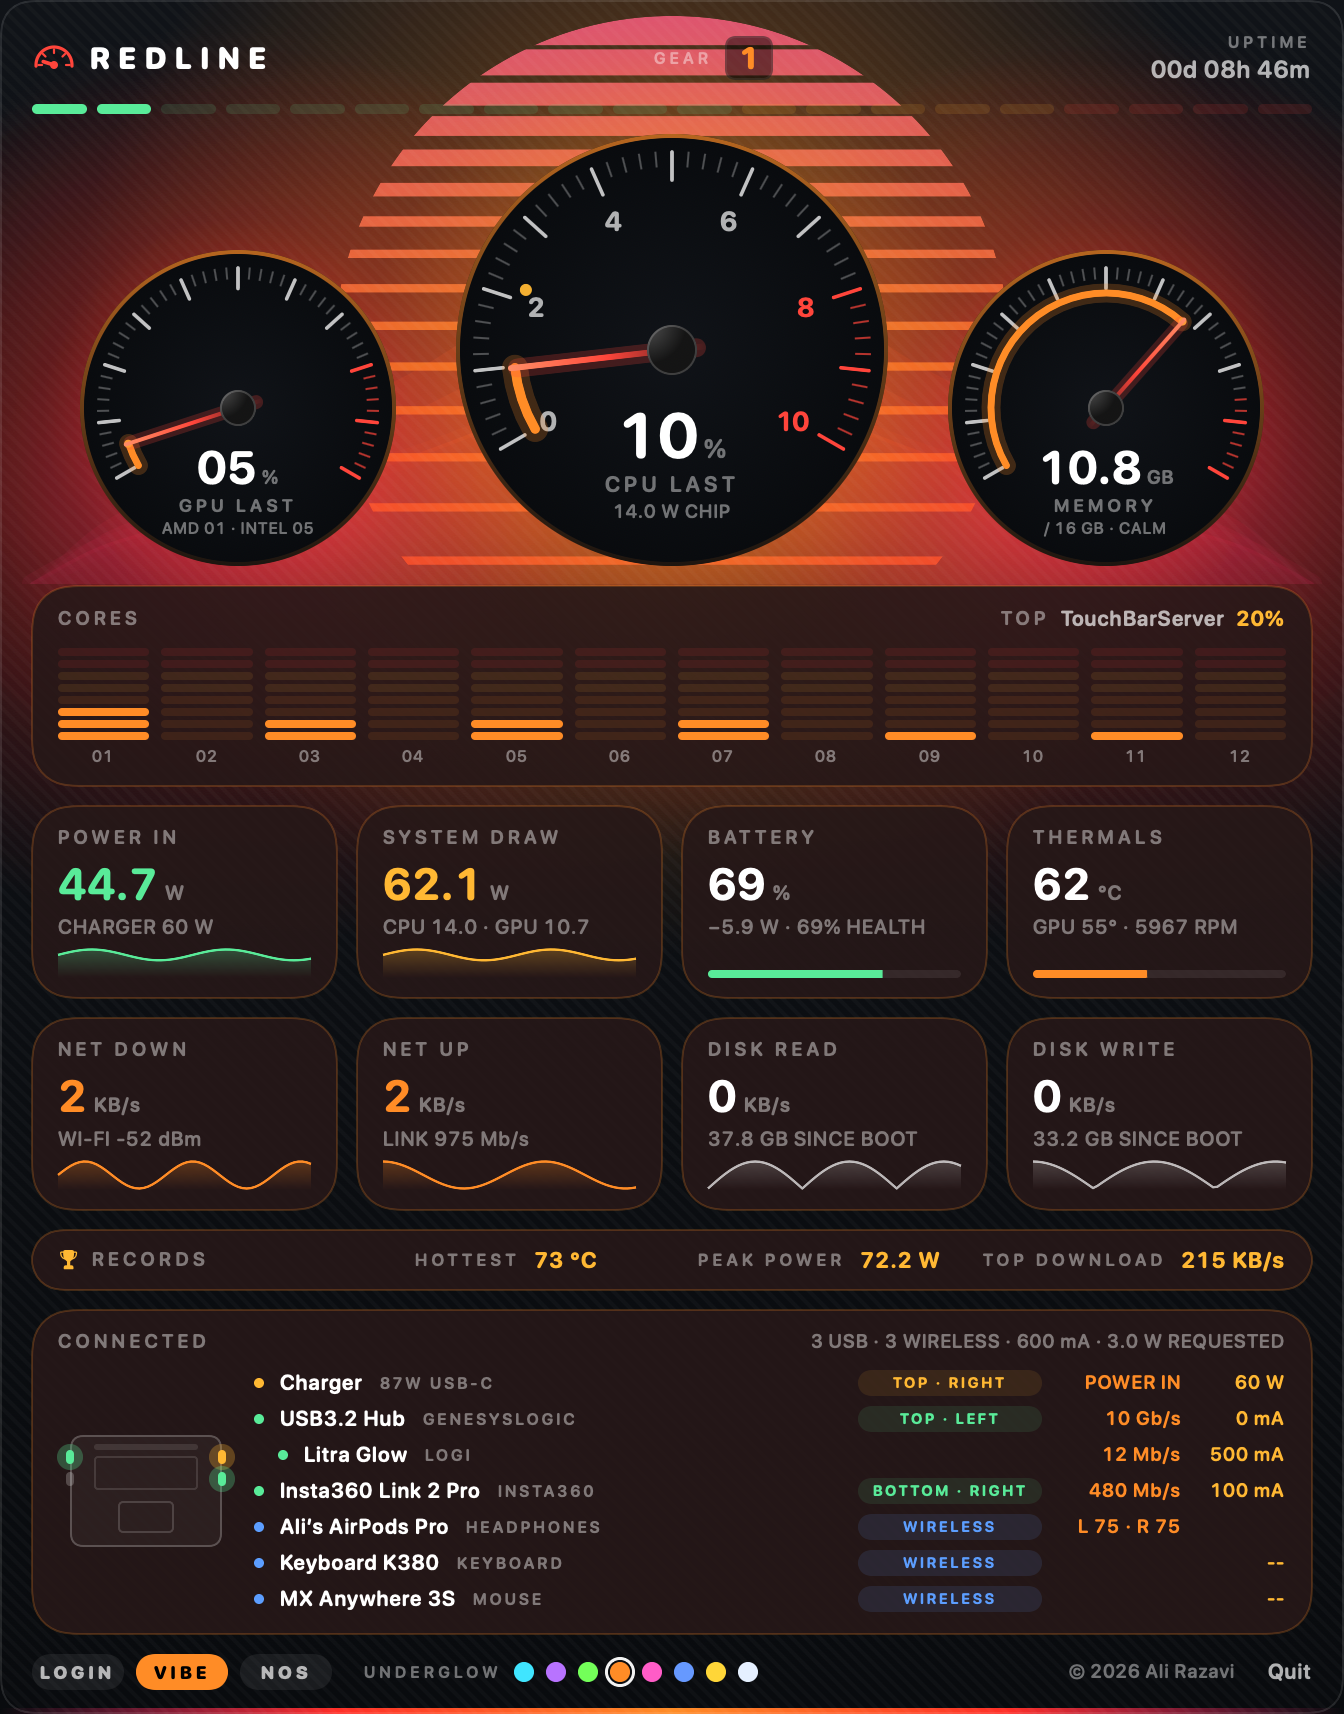
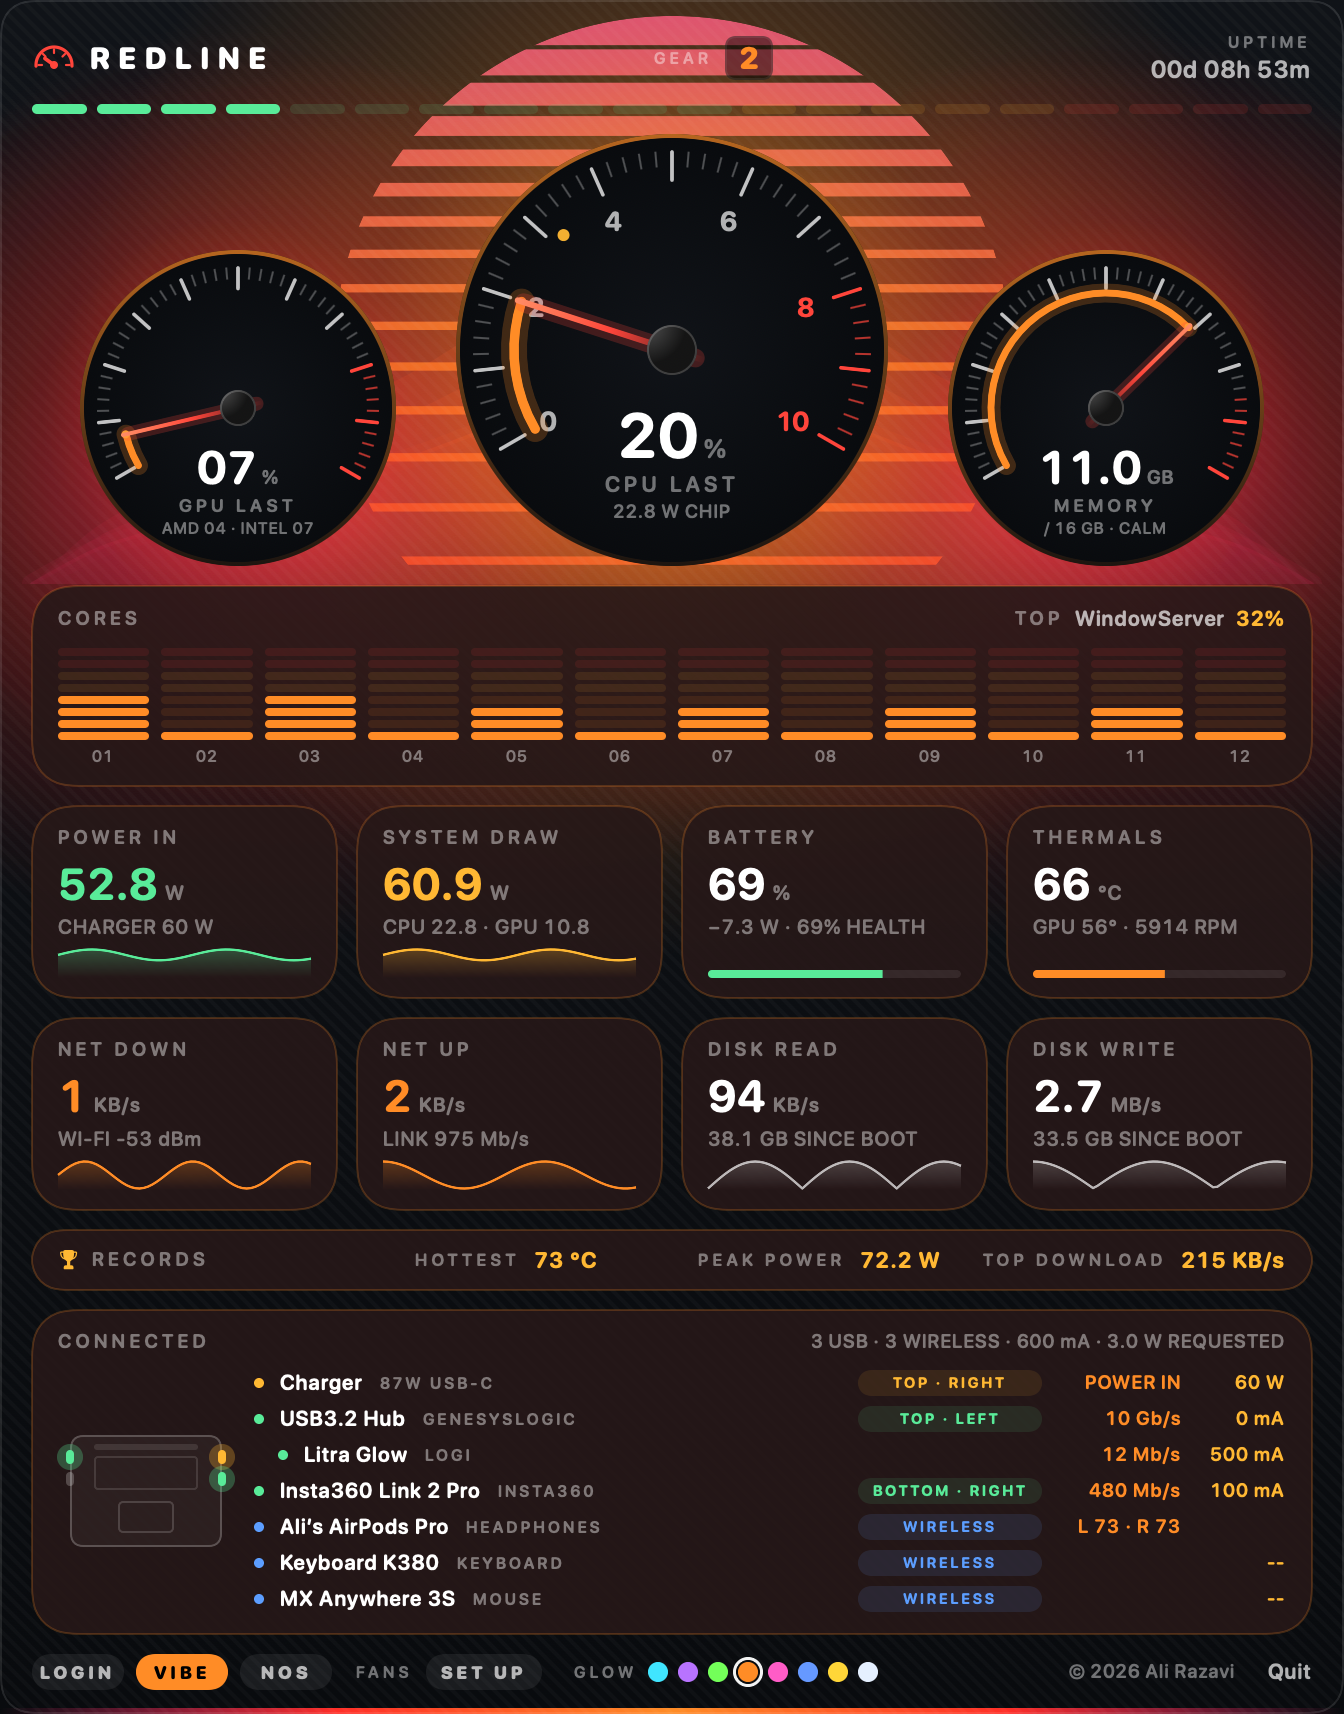
Fan switch (auto / max) with a minimal administrator helper; NOS holds fans at max

diff --git a/src/main.swift b/src/main.swift
@@ -88,6 +88,7 @@ struct Snap {
     var wireless: [Wireless] = []
     var hog = ""; var hogPct = 0.0
     var uptime: TimeInterval = 0
+    var fanForced = false     // the sensor chip says the fans are held at a fixed speed
     var chargerSocket = 0     // which USB-C socket (1-4) the charger is in; 0 = none or unknown
 }
 
@@ -128,6 +129,7 @@ final class Probe {
 
     /// Cheap extras while the card is closed, so the records keep counting: whole-Mac watts and CPU temperature.
     func light(into s: inout Snap) {
+        s.fanForced = (smc.read("F0Md") ?? 0) > 0
         s.sysW = smc.first(["PSTR"]) { $0 > 0.05 && $0 < 400 }
         s.cpuTemp = smc.first(["TCXC", "TC0F", "TC0E", "TC0P", "TC0D"]) { $0 > 5 && $0 < 125 }
     }
@@ -204,6 +206,7 @@ final class Probe {
         s.gpuTemp = smc.first(["TG0P", "TGDD", "TG0D", "TG1D"], temp)
         let nf = Int(smc.read("FNum") ?? 0)
         s.fans = (0..<min(nf, 4)).compactMap { smc.read("F\($0)Ac") }
+        s.fanForced = (smc.read("F0Md") ?? 0) > 0
         if let mx = smc.read("F0Mx"), mx > 1000 { s.fanMax = mx }
         var st: Unmanaged<CFDictionary>?
         if IOPMCopyCPUPowerStatus(&st) == kIOReturnSuccess, let d = st?.takeRetainedValue() as? [String: Any] {
@@ -330,6 +333,19 @@ final class Probe {
     }
 }
 
+// ---------- Fans: automatic or maximum ----------
+// Changing fan speed needs administrator rights, so that one job is done by a tiny separate helper (src/fan.c) that knows only
+// "max" and "auto". It is installed once, by the owner, with their password ("Enable fan control"). Redline itself never has those rights.
+enum Fans {
+    static let helper = "/Library/Application Support/Redline/redline-fan"
+    /// True once the helper is installed the way it must be: owned by the system and allowed to act for it.
+    static var ready: Bool {
+        guard let a = try? FileManager.default.attributesOfItem(atPath: helper) else { return false }
+        return (a[.ownerAccountID] as? NSNumber)?.intValue == 0 && ((a[.posixPermissions] as? NSNumber)?.intValue ?? 0) & 0o4000 != 0
+    }
+    static func set(max: Bool) { guard ready else { return }; _ = Probe.run(helper, [max ? "max" : "auto"]) }
+}
+
 // ---------- The model the panel watches ----------
 final class Model: ObservableObject {
     @Published var s = Snap()
@@ -337,7 +353,16 @@ final class Model: ObservableObject {
     let scale: CGFloat = 1                                              // the card has one fixed size
     @Published var vibe = UserDefaults.standard.bool(forKey: "vibe")    // music-reactive backdrop
     @Published var vibeNote = ""
-    @Published var nos = false { didSet { if nos != oldValue { Ink.nosOn = nos; announce() } } }   // Coffee Mode is holding the Mac awake
+    @Published var fanMax = UserDefaults.standard.bool(forKey: "fanMax")      // your own choice: false = automatic, true = maximum
+    @Published var fanReady = Fans.ready
+    /// NOS always means maximum; otherwise it is your choice.
+    var fansWanted: Bool { nos || fanMax }
+    private var fanApplied = Date.distantPast
+    func applyFans() {
+        fanApplied = Date(); let want = fansWanted
+        DispatchQueue.global(qos: .userInitiated).async { let ok = Fans.ready; if ok { Fans.set(max: want) }; DispatchQueue.main.async { if self.fanReady != ok { self.fanReady = ok } } }
+    }
+    @Published var nos = false { didSet { if nos != oldValue { Ink.nosOn = nos; announce(); applyFans() } } }   // Coffee Mode is holding the Mac awake
     /// Tells the Touch Bar app (Glowstrip) which look is on. Local to this Mac: a saved setting plus a notification between the two apps.
     var silent = false      // true while only drawing preview pictures
     func announce() {
@@ -380,7 +405,7 @@ final class Model: ObservableObject {
     private var busySlow = false
     private lazy var sockets = probe.socketTable()
 
-    func start() { schedule(2.0); refreshNOS(); announce() }
+    func start() { schedule(2.0); refreshNOS(); announce(); applyFans() }
     private func schedule(_ every: Double) {
         timer?.cancel()
         let t = DispatchSource.makeTimerSource(queue: q)
@@ -413,6 +438,8 @@ final class Model: ObservableObject {
         let snap = work, isOpen = open, settled = n > 2
         DispatchQueue.main.async {
             self.onTick?(snap.cpu)
+            // macOS takes the fans back after sleep; if what the Mac is doing no longer matches what is wanted, set it again
+            if snap.fanForced != self.fansWanted, -self.fanApplied.timeIntervalSinceNow > 6 { self.applyFans() }
             var r = self.rec
             r[0] = max(r[0], snap.cpuTemp ?? 0); r[1] = max(r[1], snap.sysW ?? 0); if isOpen, settled { r[2] = max(r[2], snap.down) }
             if r != self.rec { self.rec = r; UserDefaults.standard.set(r, forKey: "records") }
@@ -643,7 +670,7 @@ struct Pill: View {
     var body: some View {
         Button(action: action) {
             Text(text).font(.system(size: 9, weight: .heavy, design: .rounded)).tracking(1.5)
-                .foregroundColor(on ? .black : Ink.mid).frame(width: 46, height: 18)
+                .foregroundColor(on ? .black : Ink.mid).fixedSize().frame(width: text.count > 5 ? 58 : 46, height: 18)
                 .background(Capsule().fill(on ? tint : Color.white.opacity(0.07))).contentShape(Rectangle())
         }.buttonStyle(.plain).help(tip)
     }
@@ -778,7 +805,18 @@ struct Panel: View {
                 Pill(text: "VIBE", on: m.vibe, tip: m.vibeNote.isEmpty ? "Lights move with the music, and the Touch Bar takes the underglow look" : m.vibeNote) { m.vibe.toggle(); UserDefaults.standard.set(m.vibe, forKey: "vibe"); m.announce() }
                 Pill(text: "NOS", on: m.nos, tint: Ink.nos, tip: "Coffee Mode: keep the Mac awake, with its own overdrive look") { m.toggleNOS() }
                 HStack(spacing: 6) {
-                    label("UNDERGLOW", 8).opacity(m.nos ? 0.45 : 1)
+                    label("FANS", 8).fixedSize()
+                    Pill(text: !m.fanReady ? "SET UP" : (m.fansWanted ? "MAX" : "AUTO"), on: m.fanReady && m.fansWanted, tint: Ink.amber,
+                         tip: !m.fanReady ? "Fan control needs a one-time set-up with your Mac password. Click to start it."
+                              : (m.nos ? "Held at maximum while NOS is on" : (m.fanMax ? "Both fans at their rated maximum. Click for automatic." : "macOS controls the fans. Click for maximum."))) {
+                        if !m.fanReady {
+                            if Fans.ready { m.applyFans() }
+                            else if let r = Bundle.main.resourcePath { NSWorkspace.shared.open(URL(fileURLWithPath: r + "/Enable fan control.command")) }
+                        } else { m.fanMax.toggle(); UserDefaults.standard.set(m.fanMax, forKey: "fanMax"); m.applyFans() }
+                    }.disabled(m.nos && m.fanReady).opacity(m.nos && m.fanReady ? 0.55 : 1)
+                }.padding(.leading, 6)
+                HStack(spacing: 5) {
+                    label("GLOW", 8).fixedSize().opacity(m.nos ? 0.45 : 1)
                     ForEach(0..<8, id: \.self) { i in
                         Button(action: { Ink.glow = i; UserDefaults.standard.set(i, forKey: "glow"); m.theme = i; m.announce() }) {
                             Circle().fill(Ink.glows[i]).frame(width: 10, height: 10)
@@ -1553,7 +1591,7 @@ final class AppDelegate: NSObject, NSApplicationDelegate {
         if let o = outside { NSEvent.removeMonitor(o); outside = nil }
         if let k = keys { NSEvent.removeMonitor(k); keys = nil }
     }
-    func applicationWillTerminate(_ n: Notification) { tap.stop() }
+    func applicationWillTerminate(_ n: Notification) { tap.stop(); Fans.set(max: false) }      // never leave the fans held when Redline is not there to release them
 }
 
 @MainActor func writePNG(_ img: NSImage, _ path: String, px: Int) {

diff --git a/src/fan.c b/src/fan.c
@@ -1,0 +1,87 @@
+// Copyright (c) 2026 Ali Razavi. All rights reserved. Owned and controlled solely by Ali Razavi: no licence check, no remote control, no backdoor. Terms: see the LICENSE file.
+//
+// redline-fan: the one part of Redline that runs with administrator rights, so it is kept as small as possible.
+// It understands exactly three words and nothing else:
+//   status  print each fan's mode, speed and rated maximum (works without administrator rights)
+//   max     run every fan at its own rated maximum, the top speed Apple built it for
+//   auto    hand the fans back to macOS
+// It never sets a speed below what macOS would choose, reads no files, takes no other input and talks to nothing but the Mac's sensor chip.
+#include <IOKit/IOKitLib.h>
+#include <stdio.h>
+#include <string.h>
+#include <unistd.h>
+
+typedef struct { char major, minor, build, reserved[1]; UInt16 release; } vers_t;
+typedef struct { UInt16 version, length; UInt32 cpuPLimit, gpuPLimit, memPLimit; } plimit_t;
+typedef struct { UInt32 dataSize; UInt32 dataType; char dataAttributes; } info_t;
+typedef struct { UInt32 key; vers_t vers; plimit_t pLimitData; info_t keyInfo; char result, status, data8; UInt32 data32; unsigned char bytes[32]; } smc_t;
+
+static io_connect_t conn;
+static UInt32 code(const char *s) { return ((UInt32)s[0] << 24) | ((UInt32)s[1] << 16) | ((UInt32)s[2] << 8) | (UInt32)s[3]; }
+static int call(smc_t *in, smc_t *out) {
+    size_t n = sizeof(smc_t); memset(out, 0, sizeof(smc_t));
+    return IOConnectCallStructMethod(conn, 2, in, sizeof(smc_t), out, &n) == kIOReturnSuccess && out->result == 0;
+}
+static int info(const char *key, info_t *ki) {
+    smc_t in, out; memset(&in, 0, sizeof in); in.key = code(key); in.data8 = 9;
+    if (!call(&in, &out) || out.keyInfo.dataSize == 0 || out.keyInfo.dataSize > 32) return 0;
+    *ki = out.keyInfo; return 1;
+}
+static int readBytes(const char *key, info_t *ki, unsigned char *bytes) {
+    if (!info(key, ki)) return 0;
+    smc_t in, out; memset(&in, 0, sizeof in); in.key = code(key); in.keyInfo.dataSize = ki->dataSize; in.data8 = 5;
+    if (!call(&in, &out)) return 0;
+    memcpy(bytes, out.bytes, 32); return 1;
+}
+static int writeBytes(const char *key, info_t ki, const unsigned char *bytes) {
+    smc_t in, out; memset(&in, 0, sizeof in); in.key = code(key); in.keyInfo.dataSize = ki.dataSize; in.data8 = 6;
+    memcpy(in.bytes, bytes, ki.dataSize);
+    return call(&in, &out);
+}
+// Fan speeds are stored either as a float or as a 14.2 fixed-point number, depending on the Mac.
+static int readNumber(const char *key, double *v) {
+    info_t ki; unsigned char b[32];
+    if (!readBytes(key, &ki, b)) return 0;
+    if (ki.dataType == code("flt ") && ki.dataSize == 4) { float f; memcpy(&f, b, 4); *v = f; return 1; }
+    if (ki.dataType == code("fpe2") && ki.dataSize == 2) { *v = ((b[0] << 8) | b[1]) / 4.0; return 1; }
+    if (ki.dataSize == 1) { *v = b[0]; return 1; }
+    if (ki.dataSize == 2) { *v = (b[0] << 8) | b[1]; return 1; }
+    return 0;
+}
+static int writeNumber(const char *key, double v) {
+    info_t ki; unsigned char b[32]; memset(b, 0, sizeof b);
+    if (!info(key, &ki)) return 0;
+    if (ki.dataType == code("flt ") && ki.dataSize == 4) { float f = (float)v; memcpy(b, &f, 4); }
+    else if (ki.dataType == code("fpe2") && ki.dataSize == 2) { unsigned r = (unsigned)(v * 4); b[0] = (r >> 8) & 0xff; b[1] = r & 0xff; }
+    else if (ki.dataSize == 1) { b[0] = (unsigned char)v; }
+    else if (ki.dataSize == 2) { unsigned r = (unsigned)v; b[0] = (r >> 8) & 0xff; b[1] = r & 0xff; }
+    else return 0;
+    return writeBytes(key, ki, b);
+}
+
+int main(int argc, char **argv) {
+    if (argc != 2 || (strcmp(argv[1], "status") && strcmp(argv[1], "max") && strcmp(argv[1], "auto"))) { fprintf(stderr, "usage: redline-fan status|max|auto\n"); return 2; }
+    int want = !strcmp(argv[1], "max") ? 1 : (!strcmp(argv[1], "auto") ? 0 : -1);
+    io_service_t svc = IOServiceGetMatchingService(kIOMainPortDefault, IOServiceMatching("AppleSMC"));
+    if (!svc || IOServiceOpen(svc, mach_task_self(), 0, &conn) != kIOReturnSuccess) { fprintf(stderr, "cannot reach the sensor chip\n"); return 1; }
+    double count = 0; if (!readNumber("FNum", &count) || count < 1 || count > 6) { fprintf(stderr, "no fans found\n"); return 1; }
+    if (want >= 0 && geteuid() != 0) { fprintf(stderr, "needs administrator rights: run 'Enable fan control' once\n"); return 3; }
+    int ok = 1;
+    for (int i = 0; i < (int)count; i++) {
+        char md[5], tg[5], mx[5], ac[5]; snprintf(md, 5, "F%dMd", i); snprintf(tg, 5, "F%dTg", i); snprintf(mx, 5, "F%dMx", i); snprintf(ac, 5, "F%dAc", i);
+        double top = 0, now = 0, mode = 0;
+        if (!readNumber(mx, &top) || top < 1000 || top > 12000) { fprintf(stderr, "fan %d: no rated maximum, left alone\n", i); ok = 0; continue; }
+        if (want == 1) {
+            // The target is the fan's own rated maximum as reported by the Mac (never a number made up here, never above it).
+            // If the target does not stick, the fan is handed straight back to macOS rather than left in an unknown state.
+            double set = 0;
+            if (!(writeNumber(md, 1) && writeNumber(tg, top)) || !readNumber(tg, &set) || set > top + 1 || set < top - 50) {
+                writeNumber(md, 0); fprintf(stderr, "fan %d: could not set maximum, returned to automatic\n", i); ok = 0;
+            }
+        }
+        if (want == 0) { if (!writeNumber(md, 0)) { fprintf(stderr, "fan %d: could not return to automatic\n", i); ok = 0; } }
+        readNumber(ac, &now); readNumber(md, &mode);
+        printf("fan %d mode %s now %.0f max %.0f\n", i, mode > 0 ? "max" : "auto", now, top);
+    }
+    return ok ? 0 : 1;
+}

diff --git a/README.md b/README.md
@@ -34,6 +34,14 @@ Copyright (c) 2026 Ali Razavi. All rights reserved. See `LICENSE`.
 - **NOS**: switches Coffee Mode (the keep-awake app) on or off. While it is on, the card runs its own red overdrive look with racing edge lights that pulses even in silence. Redline makes no sounds.
 - **Touch Bar**: if Glowstrip is running, it follows these switches. it always wears the underglow you picked; VIBE off = standing still, VIBE on = moving with the music; NOS = the NOS look. The two apps talk only on this Mac (a saved setting and a local notification).
 
+## Fans
+
+The **FANS** switch in the footer has two positions: **AUTO** (macOS decides) and **MAX** (both fans at their own rated maximum, the figure the Mac itself reports: 5,927 and 5,489 rpm on this MacBook Pro). NOS always holds the fans at MAX and greys the switch out; when NOS goes off, the fans return to whatever you had chosen.
+
+Changing fan speed needs administrator rights, so that one job is done by a separate helper, `src/fan.c`, about a hundred lines, which understands only `status`, `max` and `auto`. It can never set a speed below what macOS would choose, checks that its setting took, and hands the fan back to macOS if it did not. It is installed once by clicking the switch (it reads SET UP until then), which opens a Terminal window that asks for your Mac password. `Remove fan control.command` inside the app's Resources folder removes it again.
+
+Redline returns the fans to automatic when it quits, and re-applies your choice after the Mac wakes from sleep. Do not run another fan tool (such as Macs Fan Control) at the same time: the two would fight over the fans.
+
 ## Touch Bar is optional
 
 Redline works on any Mac. If the Mac has a Touch Bar and Glowstrip is installed, Redline starts it and the two share one look; if there is no Touch Bar, that part is skipped and nothing else changes. `Install Redline.command` installs Redline, and Glowstrip too when a Touch Bar is found and the Glowstrip folder sits next to this one. While NOS is on, the underglow dots are greyed out and locked; the one you had picked stays faintly marked and returns when NOS goes off.
